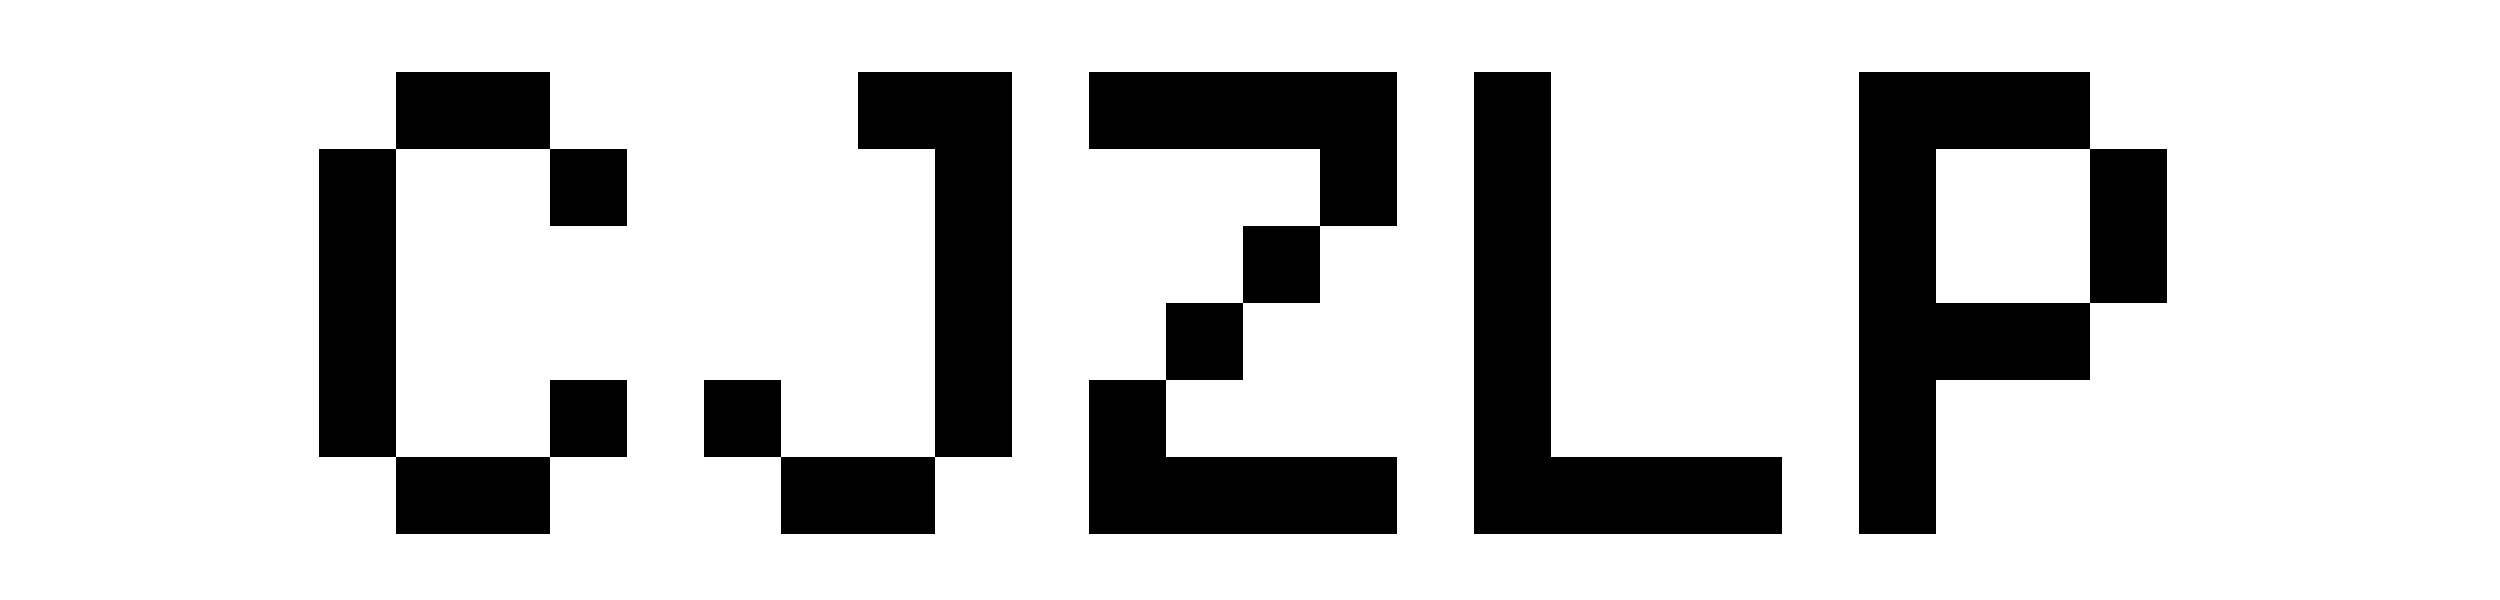
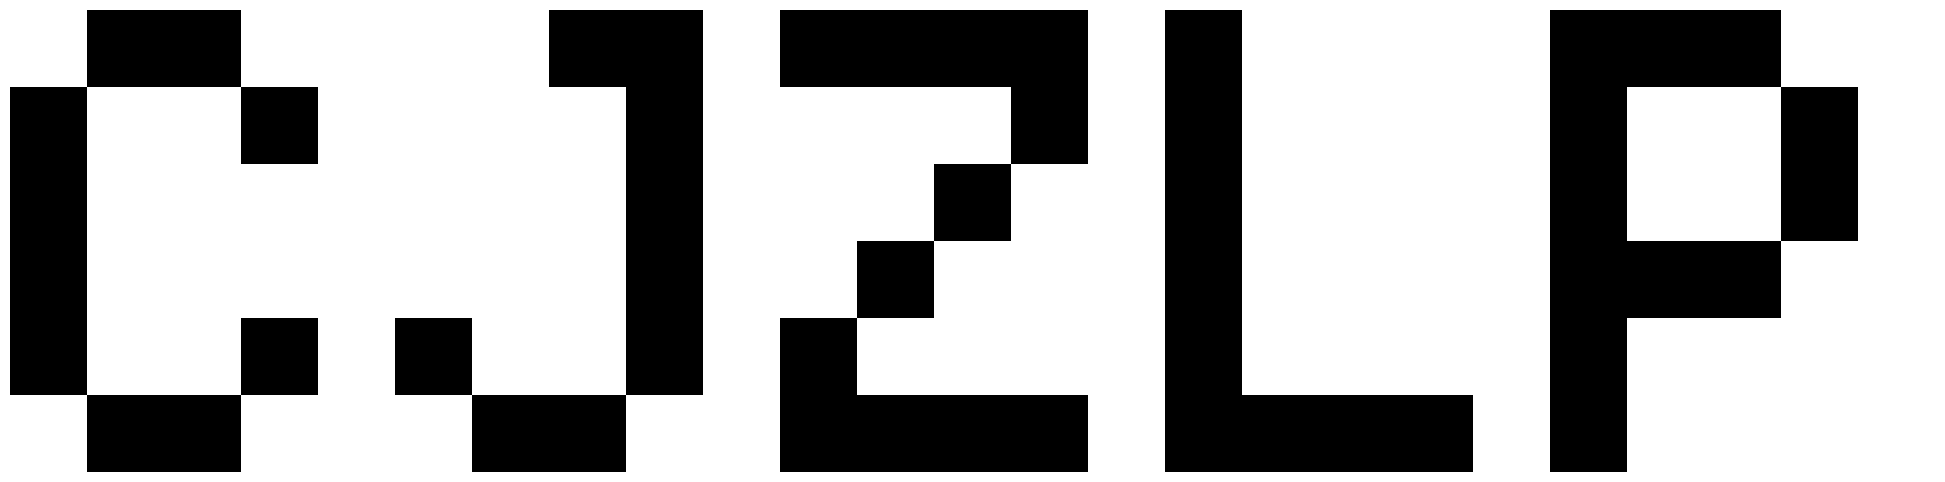
day07: visualize part 2 output using matplotlib

diff --git a/day08/day8.py b/day08/day8.py
@@ -61,5 +61,5 @@ print(f"Part 2:\n{render_image_as_string(decoded_image)}")
 plt.figure(figsize=image_dimensions)
 plt.imshow(decoded_image, cmap='gray_r')
 plt.axis('off')
-plt.savefig("day8_output.png")
+plt.savefig("day8_output.png", bbox_inches='tight')
 plt.close()
